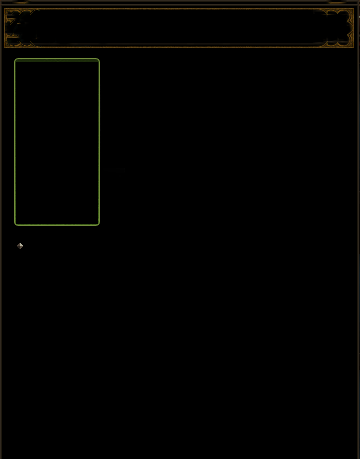
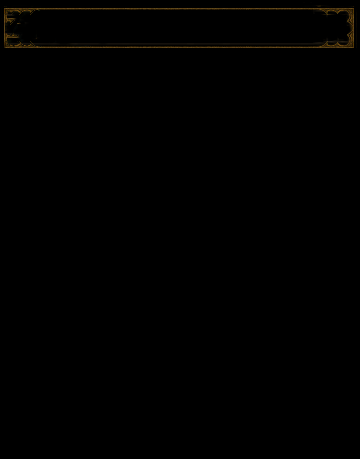
améliration du item details. ajout d'image ajout du tag lors de l'enregistrement.

Changed region(s): [[0.0, 0.0, 1.0, 1.0], [0.0611, 0.488, 0.275, 0.5185]]

diff --git a/src/org/armory/d3/ui/SwingMainFrame.java b/src/org/armory/d3/ui/SwingMainFrame.java
@@ -8,6 +8,7 @@ import java.awt.event.MouseEvent;
 
 import javax.swing.BoxLayout;
 import javax.swing.DefaultComboBoxModel;
+import javax.swing.DefaultListModel;
 import javax.swing.JFrame;
 import javax.swing.JLabel;
 import javax.swing.JList;
@@ -94,6 +95,8 @@ public class SwingMainFrame extends javax.swing.JFrame {
 	private JMenu jMenu3;
 	private JMenuBar jMenuBar1;
 
+	DefaultComboBoxModel listeTagsModel;
+	
 	
 	private ListeHeroModel listeHerosModel; 
 	
@@ -297,13 +300,14 @@ public class SwingMainFrame extends javax.swing.JFrame {
 		lblMainHand.setItem(mainHand);
 		lblSocketMainHand.setItem(mainHand,0);
 		
-		if(mainHand.nbSockets()==2)
-			lblSocketMainHand2.setItem(mainHand,1);
-		else
-			lblSocketMainHand2.setItem(null,1);
 		
 		if(mainHand!=null)
 		{
+			if(mainHand.nbSockets()==2)
+				lblSocketMainHand2.setItem(mainHand,1);
+			else
+				lblSocketMainHand2.setItem(null,1);
+			
 			if(mainHand.getType().getTwoHanded() && hero.getItems().getOffHand()==null)
 			{
 				lblOffHand.setItem(hero.getItems().getMainHand());
@@ -661,7 +665,7 @@ public class SwingMainFrame extends javax.swing.JFrame {
 	}
 	
 	private void newFileMenuItemActionPerformed(ActionEvent evt) {
-		TagsManagerFrame f = new TagsManagerFrame();
+		TagsManagerFrame f = new TagsManagerFrame(listeTagsModel);
 		f.setVisible(true);
 	}
 	
@@ -673,7 +677,7 @@ public class SwingMainFrame extends javax.swing.JFrame {
 				splitTagsHeroes.add(scrollTags, JSplitPane.LEFT);
 				scrollTags.setSize(250, 788);
 				{
-					ListModel listeTagsModel = new DefaultComboBoxModel(D3ArmoryControler.getInstance().getListTags().toArray());
+					listeTagsModel = new DefaultComboBoxModel(D3ArmoryControler.getInstance().getListTags().toArray());
 					listeTags = new JList();
 					scrollTags.setViewportView(listeTags);
 					listeTags.setModel(listeTagsModel);

diff --git a/src/org/armory/d3/ui/TagsManagerFrame.java b/src/org/armory/d3/ui/TagsManagerFrame.java
@@ -1,25 +1,22 @@
 package org.armory.d3.ui;
 import java.awt.BorderLayout;
-import java.awt.GridBagConstraints;
-import java.awt.GridBagLayout;
 import java.awt.GridLayout;
-import java.awt.Insets;
 import java.awt.event.ActionEvent;
 import java.awt.event.ActionListener;
+
 import javax.swing.ComboBoxModel;
 import javax.swing.DefaultComboBoxModel;
+import javax.swing.DefaultListModel;
 import javax.swing.JButton;
 import javax.swing.JComboBox;
 import javax.swing.JFrame;
 import javax.swing.JLabel;
 import javax.swing.JPanel;
 import javax.swing.JTextField;
-
 import javax.swing.WindowConstants;
 
 import org.armory.d3.services.D3ArmoryControler;
 import org.jdesktop.application.Application;
-import javax.swing.SwingUtilities;
 
 
 /**
@@ -43,23 +40,12 @@ public class TagsManagerFrame extends javax.swing.JFrame {
 	private JLabel lblbattleTag;
 	private JButton btnSave;
 	private JPanel panneauBas;
-
-	/**
-	* Auto-generated main method to display this JFrame
-	*/
-	public static void main(String[] args) {
-		SwingUtilities.invokeLater(new Runnable() {
-			public void run() {
-				TagsManagerFrame inst = new TagsManagerFrame();
-				inst.setLocationRelativeTo(null);
-				inst.setVisible(true);
-			}
-		});
-	}
+	private DefaultComboBoxModel tagsList;
 	
-	public TagsManagerFrame() {
+	public TagsManagerFrame(DefaultComboBoxModel listeTagsModel) {
 		super();
 		initGUI();
+		tagsList = listeTagsModel;
 	}
 	
 	private void initGUI() {
@@ -135,6 +121,7 @@ public class TagsManagerFrame extends javax.swing.JFrame {
 	private void btnSaveActionPerformed(ActionEvent evt)
 	{
 		D3ArmoryControler.getInstance().addTags(txtTag.getText(), cboListServer.getSelectedItem().toString());
+		tagsList.addElement(txtTag.getText()+"#"+cboListServer.getSelectedItem().toString());
 		this.dispose();
 	}
 	

diff --git a/src/org/armory/d3/Main.java b/src/org/armory/d3/Main.java
@@ -1,7 +1,5 @@
 package org.armory.d3;
 
-import java.util.List;
-
 import org.armory.d3.beans.Gem;
 import org.armory.d3.beans.Hero;
 import org.armory.d3.beans.Item;
@@ -30,7 +28,7 @@ public class Main {
 		Profile profile = profileService.receiveEntity(conf);
 		
 			
-			Hero hero = profile.getHeroes().get(0);
+			Hero hero = profile.getHeroes().get(1);
 				 conf.setHeroId(hero.getId());
 				 hero = heroService.receiveEntity(conf);
 				 
@@ -44,6 +42,10 @@ public class Main {
 				 		System.out.println(item.getName() + " ( "+ item.getTypeName() + ")");
 				 		System.out.println("Niveau nécessaire " + item.getRequiredLevel());
 				 		System.out.println("Niveau objet " + item.getItemLevel());
+				 		System.out.println("BonusAffixe " + item.getBonusAffixes());
+				 		
+				 		System.out.println("Echanté " + item.getEnchantedWeapon());
+				 		
 				 		
 				 		if(item.isArmor())
 				 			System.out.println("Armor " + item.getArmor());

diff --git a/src/org/armory/d3/beans/Item.java b/src/org/armory/d3/beans/Item.java
@@ -1,5 +1,6 @@
 package org.armory.d3.beans;
 
+import java.util.Iterator;
 import java.util.List;
 import java.util.Map;
 
@@ -47,6 +48,33 @@ public class Item  extends RemoteEntity {
 		else
 			return attributesRaw.get("Sockets").getMax().intValue();
 	}
+	
+	public String getEnchantedWeapon()
+	{
+		if(!isWeapon())
+			return "";
+		
+		Iterator<String> attributes = attributesRaw.keySet().iterator();
+		while(attributes.hasNext())
+		{
+			String att= attributes.next();
+			if(att.contains("Poison"))
+				return "poison";
+			if(att.contains("Arcane"))
+				return "arcane";
+			if(att.contains("Fire"))
+				return "fire";
+			if(att.contains("Lightning"))
+				return "lightning";
+			if(att.contains("Holy"))
+				return "holy";
+			if(att.contains("Cold"))
+				return "cold";
+		}
+		return "";
+			
+	}
+	
 	
 	public int nbGems(){
 		if (gems!=null)

diff --git a/src/org/armory/d3/ui/ItemPanelDetails.java b/src/org/armory/d3/ui/ItemPanelDetails.java
@@ -68,6 +68,17 @@ public class ItemPanelDetails extends JPanel {
 		 Graphics2D g2d = ( Graphics2D )g;
 		 Image i = new ImageIcon(getClass().getResource("/org/armory/d3/ui/resources/itemBackground.png")).getImage();
 		 g2d.drawImage(i, 0, 0, null);
+		 
+		 if(item!=null)
+			 if(item.isArmor())
+			 {
+				 g2d.drawImage(new ImageIcon(getClass().getResource("/org/armory/d3/ui/resources/armor.jpg")).getImage(), 100, 85, null);
+			 }
+			 else
+			 {
+				 if(!item.getEnchantedWeapon().equals(""))
+					 g2d.drawImage(new ImageIcon(getClass().getResource("/org/armory/d3/ui/resources/"+item.getEnchantedWeapon()+".jpg")).getImage(), 100, 85, null);
+			 }
 	}
 	
 	public void showItem(Item item) {

diff --git a/src/org/armory/d3/ui/HeroPanel.java b/src/org/armory/d3/ui/HeroPanel.java
@@ -36,7 +36,7 @@ public class HeroPanel extends JPanel {
 			 	    URL url = new URL(imagePath);
 			 	    image = ImageIO.read(url);
 			 	    g.drawImage(image, 0, 0, null);
-			 	    
+			 	  
 			 	} 
 			 	catch (IOException e) 
 			 	{
@@ -49,7 +49,7 @@ public class HeroPanel extends JPanel {
 			g.drawImage(bg,0,0,null);
 		}
 		
-		
+		  g.drawImage(new ImageIcon(getClass().getResource("/org/armory/d3/ui/resources/inventory-lines.png")).getImage(),462,170,null);
 	}
 
 	private String imagePath;
